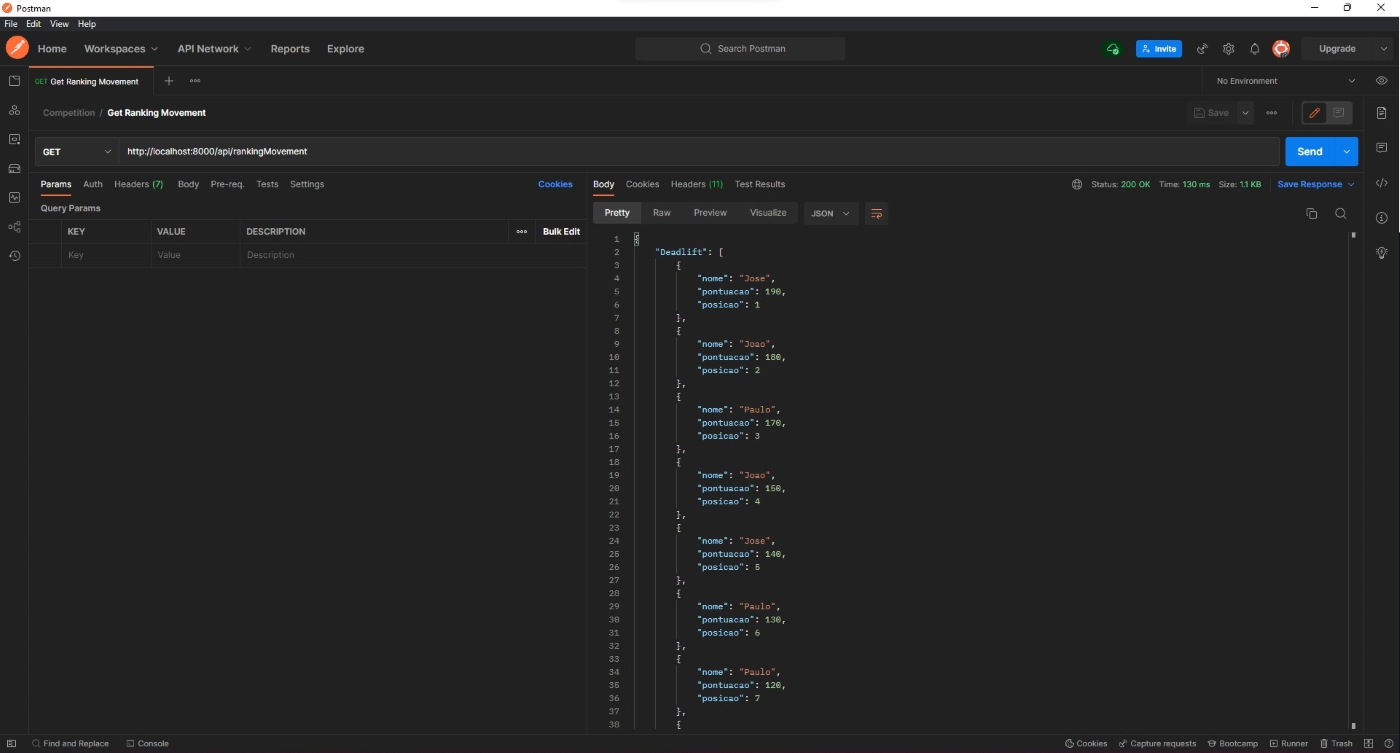
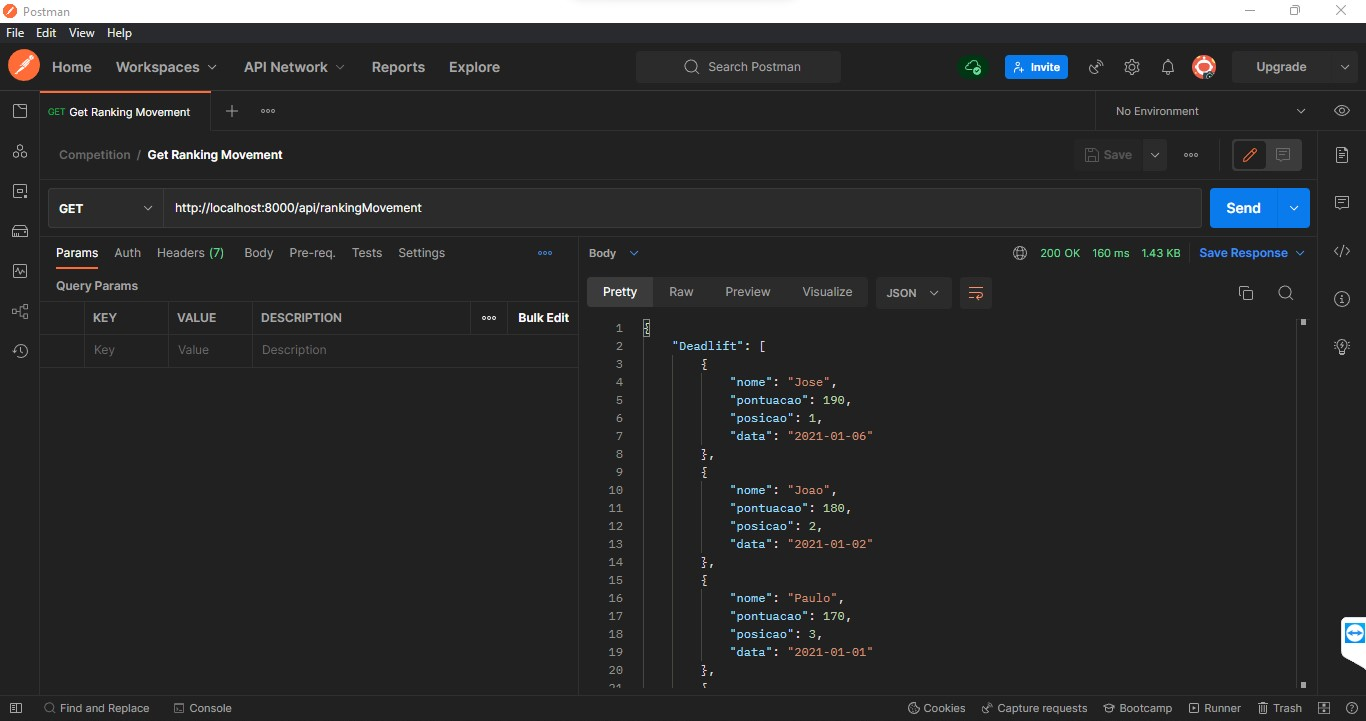
Atualizações

diff --git a/database/seeders/PersonalRecordSeeder.php b/database/seeders/PersonalRecordSeeder.php
@@ -15,124 +15,37 @@ class PersonalRecordSeeder extends Seeder
      */
     public function run()
     {
-        PersonalRecord::create([   
-            'user_id' => '1',
-            'movement_id' => '1',
-            'value' => '100.0',
-            'date' => '2021-01-01 00:00:00.0'
-        ]);
+        
+        $arrayPontuacao = [
+            $personalRecord[0] = ['1','1','100.0','2021-01-01 00:00:00.0'],
+            $personalRecord[1] = ['1','1','180.0','2021-01-02 00:00:00.0'],
+            $personalRecord[2] = ['1','1','150.0','2021-01-03 00:00:00.0'],
+            $personalRecord[3] = ['1','1','110.0','2021-01-04 00:00:00.0'],
+            $personalRecord[4] = ['2','1','110.0','2021-01-04 00:00:00.0'],
+            $personalRecord[5] = ['2','1','140.0','2021-01-05 00:00:00.0'],
+            $personalRecord[6] = ['2','1','190.0','2021-01-06 00:00:00.0'],
+            $personalRecord[7] = ['3','1','170.0','2021-01-01 00:00:00.0'],
+            $personalRecord[8] = ['3','1','120.0','2021-01-02 00:00:00.0'],
+            $personalRecord[9] = ['3','1','130.0','2021-01-03 00:00:00.0'],
+            $personalRecord[10] = ['1','2','130.0','2021-01-03 00:00:00.0'],
+            $personalRecord[11] = ['2','2','130.0','2021-01-03 00:00:00.0'],
+            $personalRecord[12] = ['3','2','125.0','2021-01-03 00:00:00.0'],
+            $personalRecord[13] = ['1','2','110.0','2021-01-05 00:00:00.0'],
+            $personalRecord[14] = ['1','2','100.0','2021-01-01 00:00:00.0'],
+            $personalRecord[15] = ['2','2','120.0','2021-01-01 00:00:00.0'],
+            $personalRecord[16] = ['3','2','120.0','2021-01-01 00:00:00.0']
+        ];
 
-        PersonalRecord::create([
-            'user_id' => '1',
-            'movement_id' => '1',
-            'value' => '180.0',
-            'date' => '2021-01-02 00:00:00.0'
-        ]);
-
-        PersonalRecord::create([
-            'user_id' => '1',
-            'movement_id' => '1',
-            'value' => '150.0',
-            'date' => '2021-01-03 00:00:00.0'
-        ]);
-
-        PersonalRecord::create([
-            'user_id' => '1',
-            'movement_id' => '1',
-            'value' => '110.0',
-            'date' => '2021-01-04 00:00:00.0'
-        ]);
-
-        PersonalRecord::create([
-            'user_id' => '2',
-            'movement_id' => '1',
-            'value' => '110.0',
-            'date' => '2021-01-04 00:00:00.0'
-        ]);
-
-        PersonalRecord::create([
-            'user_id' => '2',
-            'movement_id' => '1',
-            'value' => '140.0',
-            'date' => '2021-01-05 00:00:00.0'
-        ]);
-
-        PersonalRecord::create([
-            'user_id' => '2',
-            'movement_id' => '1',
-            'value' => '190.0',
-            'date' => '2021-01-06 00:00:00.0'
-        ]);
-
-        PersonalRecord::create([
-            'user_id' => '3',
-            'movement_id' => '1',
-            'value' => '170.0',
-            'date' => '2021-01-01 00:00:00.0'
-        ]);
-
-        PersonalRecord::create([
-            'user_id' => '3',
-            'movement_id' => '1',
-            'value' => '120.0',
-            'date' => '2021-01-02 00:00:00.0'
-        ]);
-
-        PersonalRecord::create([
-            'user_id' => '3',
-            'movement_id' => '1',
-            'value' => '130.0',
-            'date' => '2021-01-03 00:00:00.0'
-        ]);
-
-        PersonalRecord::create([
-            'user_id' => '1',
-            'movement_id' => '2',
-            'value' => '130.0',
-            'date' => '2021-01-03 00:00:00.0'
-        ]);
-
-        PersonalRecord::create([
-            'user_id' => '2',
-            'movement_id' => '2',
-            'value' => '130.0',
-            'date' => '2021-01-03 00:00:00.0'
-        ]);
-
-        PersonalRecord::create([
-            'user_id' => '3',
-            'movement_id' => '2',
-            'value' => '125.0',
-            'date' => '2021-01-03 00:00:00.0'
-        ]);
-
-        PersonalRecord::create([
-            'user_id' => '1',
-            'movement_id' => '2',
-            'value' => '110.0',
-            'date' => '2021-01-05 00:00:00.0'
-        ]);
-
-        PersonalRecord::create([
-            'user_id' => '1',
-            'movement_id' => '2',
-            'value' => '100.0',
-            'date' => '2021-01-01 00:00:00.0'
-        ]);
-
-        PersonalRecord::create([
-            'user_id' => '2',
-            'movement_id' => '2',
-            'value' => '120.0',
-            'date' => '2021-01-01 00:00:00.0'
-        ]);
-
-        PersonalRecord::create([
-            'user_id' => '3',
-            'movement_id' => '2',
-            'value' => '120.0',
-            'date' => '2021-01-01 00:00:00.0'
-        ]);
-
+        $pontuacao = [];
+        for ($i = 0; $i < count($arrayPontuacao); $i++){
+            $pontuacao[] = [
+                'user_id' => $personalRecord[$i][0],
+                'movement_id' => $personalRecord[$i][1],
+                'value' => $personalRecord[$i][2],
+                'date' => $personalRecord[$i][3]
+            ];
+        }
+        PersonalRecord::insert($pontuacao);
+        
     }
 }

diff --git a/app/Http/Controllers/Api/RankingMovementController.php b/app/Http/Controllers/Api/RankingMovementController.php
@@ -20,8 +20,8 @@ class rankingMovementController extends Controller
                     ->join('movement', 'personal_record.movement_id', '=', 'movement.id')
                     ->select('user.name AS nome', 
                              'personal_record.value AS pontuacao', 
-                              DB::raw('DENSE_RANK() OVER (ORDER BY personal_record.value DESC) posicao',
-                             'personal_record.date AS data'))
+                              DB::raw('DENSE_RANK() OVER (ORDER BY personal_record.value DESC) posicao'),
+                              DB::raw('DATE(personal_record.date) AS data'))
                     ->where('movement.name', '=', $movement['name'])
                     ->orderBy('personal_record.value', 'desc')
                     ->get();

diff --git a/routes/web.php b/routes/web.php
@@ -20,7 +20,3 @@ use Illuminate\Support\Facades\Route;
 Route::get('/', function () {
     return view('welcome');
 });
-
-Route::get('/user', [UserController::class, 'index']);
-Route::get('/movement', [MovementController::class, 'index']);
-Route::get('/personalRecord', [PersonalRecordController::class, 'index']);
